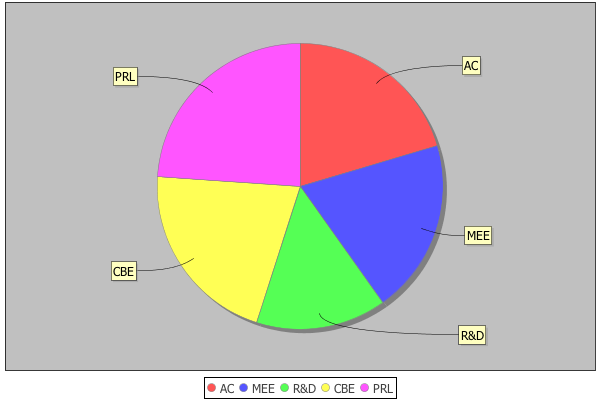
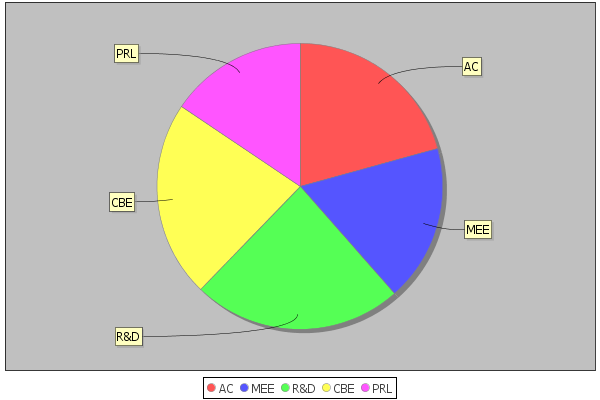
charts4j trial for statistics

diff --git a/src/main/java/fr/affectation/service/statistics/StatisticsServiceCharts4j.java b/src/main/java/fr/affectation/service/statistics/StatisticsServiceCharts4j.java
@@ -1,6 +1,5 @@
 package fr.affectation.service.statistics;
 
-import java.awt.Color;
 import java.io.File;
 import java.util.ArrayList;
 import java.util.Collections;
@@ -20,6 +19,11 @@ import org.jfree.data.category.DefaultCategoryDataset;
 import org.jfree.data.general.DefaultPieDataset;
 import org.springframework.stereotype.Service;
 
+import com.googlecode.charts4j.Color;
+import com.googlecode.charts4j.GCharts;
+import com.googlecode.charts4j.PieChart;
+import com.googlecode.charts4j.Slice;
+
 import fr.affectation.domain.comparator.ComparatorSimpleSpecialization;
 import fr.affectation.domain.specialization.ImprovementCourse;
 import fr.affectation.domain.specialization.JobSector;
@@ -27,9 +31,14 @@ import fr.affectation.domain.specialization.SimpleSpecialization;
 import fr.affectation.service.specialization.SpecializationService;
 import fr.affectation.service.student.StudentService;
 
-@Service
-public class StatisticsServiceImpl implements StatisticsService {
+
+//@Service
+public class StatisticsServiceCharts4j implements StatisticsService {
 	
+	public static final Color[] colors = {Color.FORESTGREEN, Color.RED, Color.SKYBLUE, Color.CHOCOLATE, Color.ORANGE, Color.GRAY,
+		Color.PURPLE, Color.YELLOW, Color.TEAL, Color.TAN, Color.SIENNA, Color.BROWN};
+	public static String link;
+ 	
 	@Inject
 	private StudentService studentService;
 	
@@ -38,8 +47,25 @@ public class StatisticsServiceImpl implements StatisticsService {
 
 	@Override
 	public void generatePieChartIc(String path) {
-		DefaultPieDataset data = new DefaultPieDataset();
 		Map<String, Integer> icStats = findIcStats();
+		List<Slice> slices = new ArrayList<Slice>();
+		int indexColor = 0;
+		for (String key : icStats.keySet()){
+			//slices.add(Slice.newSlice(icStats.get(key), colors[indexColor], key));
+			slices.add(Slice.newSlice(icStats.get(key), key));
+			System.out.println("keyyyyy " + key);
+			indexColor += 1;
+			if (indexColor == colors.length){
+				indexColor = 0;
+			}
+		}
+		
+        PieChart chart2 = GCharts.newPieChart(slices);
+        chart2.setSize(600, 400);
+        chart2.setThreeD(true);
+        link = chart2.toURLString();
+        
+        DefaultPieDataset data = new DefaultPieDataset();
 		for (String key : icStats.keySet()){
 			data.setValue(key, icStats.get(key));
 		}
@@ -47,7 +73,7 @@ public class StatisticsServiceImpl implements StatisticsService {
 		File file = new File(path + "/img/jspchart/piechartPa.png");
 		ChartRenderingInfo info = new ChartRenderingInfo(new StandardEntityCollection());
 		try{
-			ChartUtilities.saveChartAsPNG(file, chart, 600, 400, info);
+			ChartUtilities.saveChartAsPNG(file, chart, 800, 600, info);
 		}
 		catch (Exception e){
 			System.out.println(e);
@@ -86,8 +112,25 @@ public class StatisticsServiceImpl implements StatisticsService {
 	public Map<String, Integer> findIcStats(){
 		List<ImprovementCourse> allIc = specializationService.findImprovementCourses();
 		Map<String, Integer> icStats = new HashMap<String, Integer>();
+		int sum = 0;
 		for (ImprovementCourse improvementCourse : allIc){
-			icStats.put(improvementCourse.getAbbreviation(), studentService.findSimpleStudentsByOrderChoiceAndSpecialization(1, improvementCourse).size());
+			int number = studentService.findSimpleStudentsByOrderChoiceAndSpecialization(1, improvementCourse).size();
+			icStats.put(improvementCourse.getAbbreviation(), number);
+			sum += number;
+		}
+		for (String key : icStats.keySet()){
+			float lol = (float) sum;
+			System.out.println("float(sum) : " + lol);
+			float value = (float) icStats.get(key);
+			System.out.println("1 : " + value);
+			float value2 = (value/((float) sum));
+			System.out.println("2 : " + value2);
+			int value3 = (int) (100*value2);
+			System.out.println("3 : " + value3);
+			//int valueIntDivBySum = (int) (value / (float) sum); 
+			//System.out.println("3 : " + valueIntDivBySum);
+			//System.out.println(key + " : " + valueIntDivBySum);
+			icStats.put(key, value3); 
 		}
 		return icStats;
 	}
@@ -102,7 +145,6 @@ public class StatisticsServiceImpl implements StatisticsService {
 			data.addValue(icStats.get(key), "Parcours", key);
 		}
 		JFreeChart chart = ChartFactory.createBarChart3D(null, null, null, data, PlotOrientation.HORIZONTAL, false, false, false);
-		chart.setBackgroundPaint(Color.white);
 		chart.getCategoryPlot().setRenderer(new ColorsRenderer()); 
 		File file = new File(path + "/img/jspchart/barchartPa.png");
 		ChartRenderingInfo info = new ChartRenderingInfo(new StandardEntityCollection());
@@ -125,7 +167,6 @@ public class StatisticsServiceImpl implements StatisticsService {
 			data.addValue(jsStats.get(key), "Parcours", key);
 		}
 		JFreeChart chart = ChartFactory.createBarChart3D(null, null, null, data, PlotOrientation.HORIZONTAL, false, false, false);
-		chart.setBackgroundPaint(Color.white);
 		chart.getCategoryPlot().setRenderer(new ColorsRenderer()); 
 		File file = new File(path + "/img/jspchart/barchartFm.png");
 		ChartRenderingInfo info = new ChartRenderingInfo(new StandardEntityCollection());
@@ -175,8 +216,7 @@ public class StatisticsServiceImpl implements StatisticsService {
 
 	@Override
 	public String getLink() {
-		// TODO Auto-generated method stub
-		return null;
+		return link;
 	}
 
 }

diff --git a/src/main/java/fr/affectation/service/statistics/StatisticsService.java b/src/main/java/fr/affectation/service/statistics/StatisticsService.java
@@ -17,5 +17,7 @@ public interface StatisticsService {
 	public List<SimpleSpecialization> findSimpleIcStats();
 
 	public List<SimpleSpecialization> findSimpleJsStats();
+	
+	public String getLink();
 
 }
